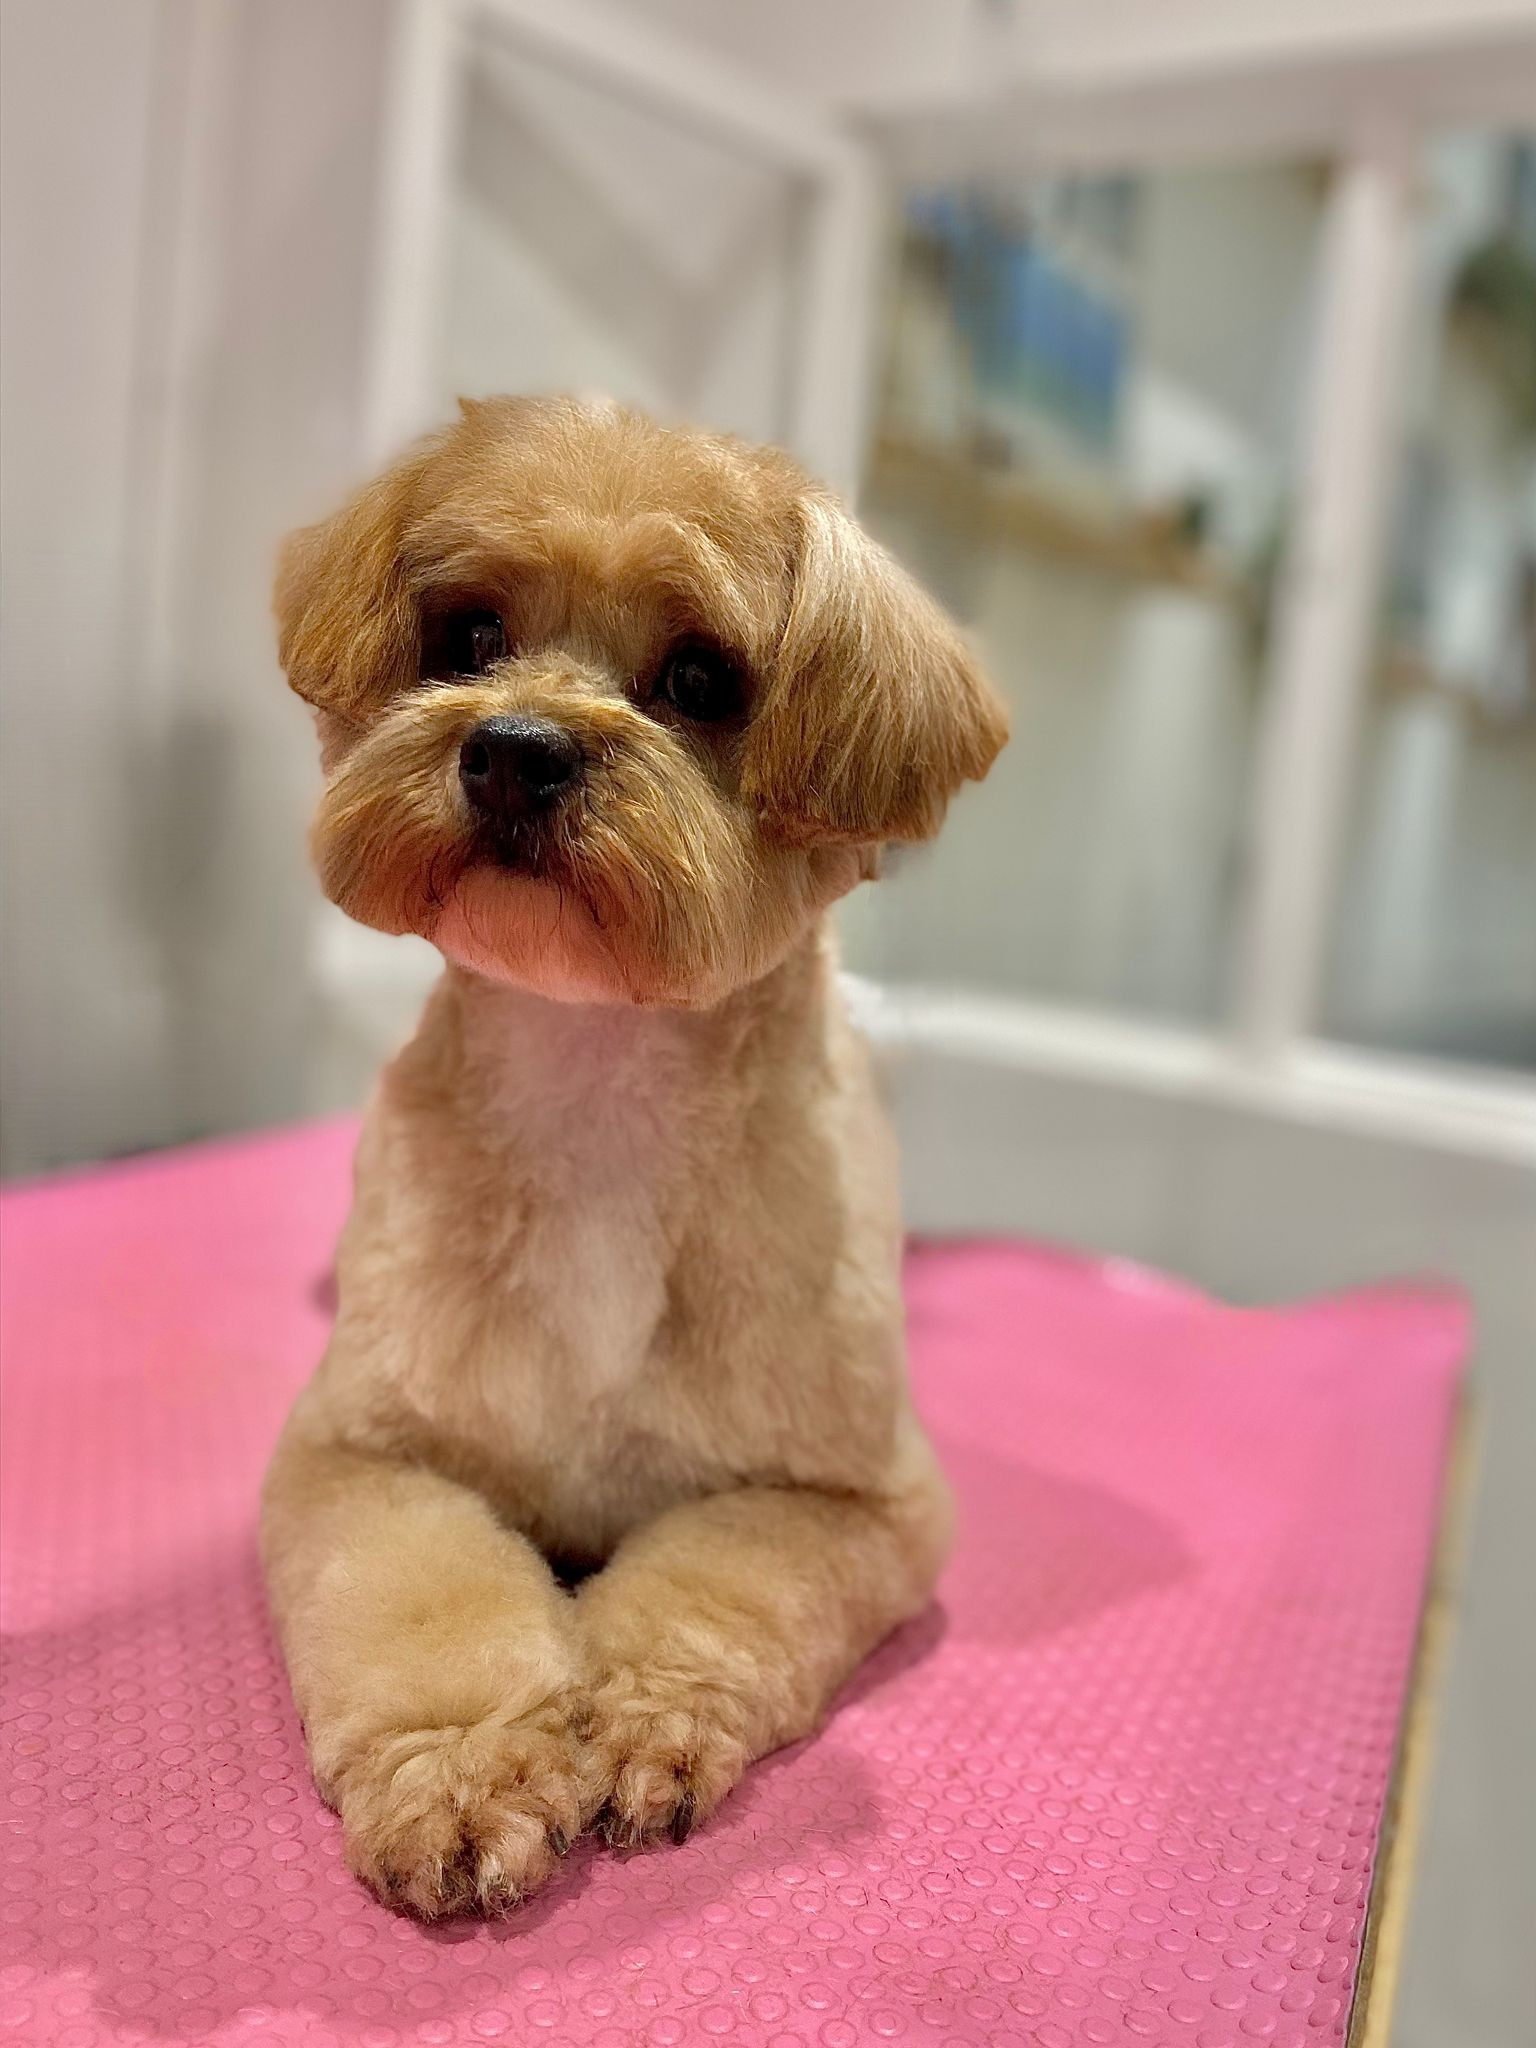
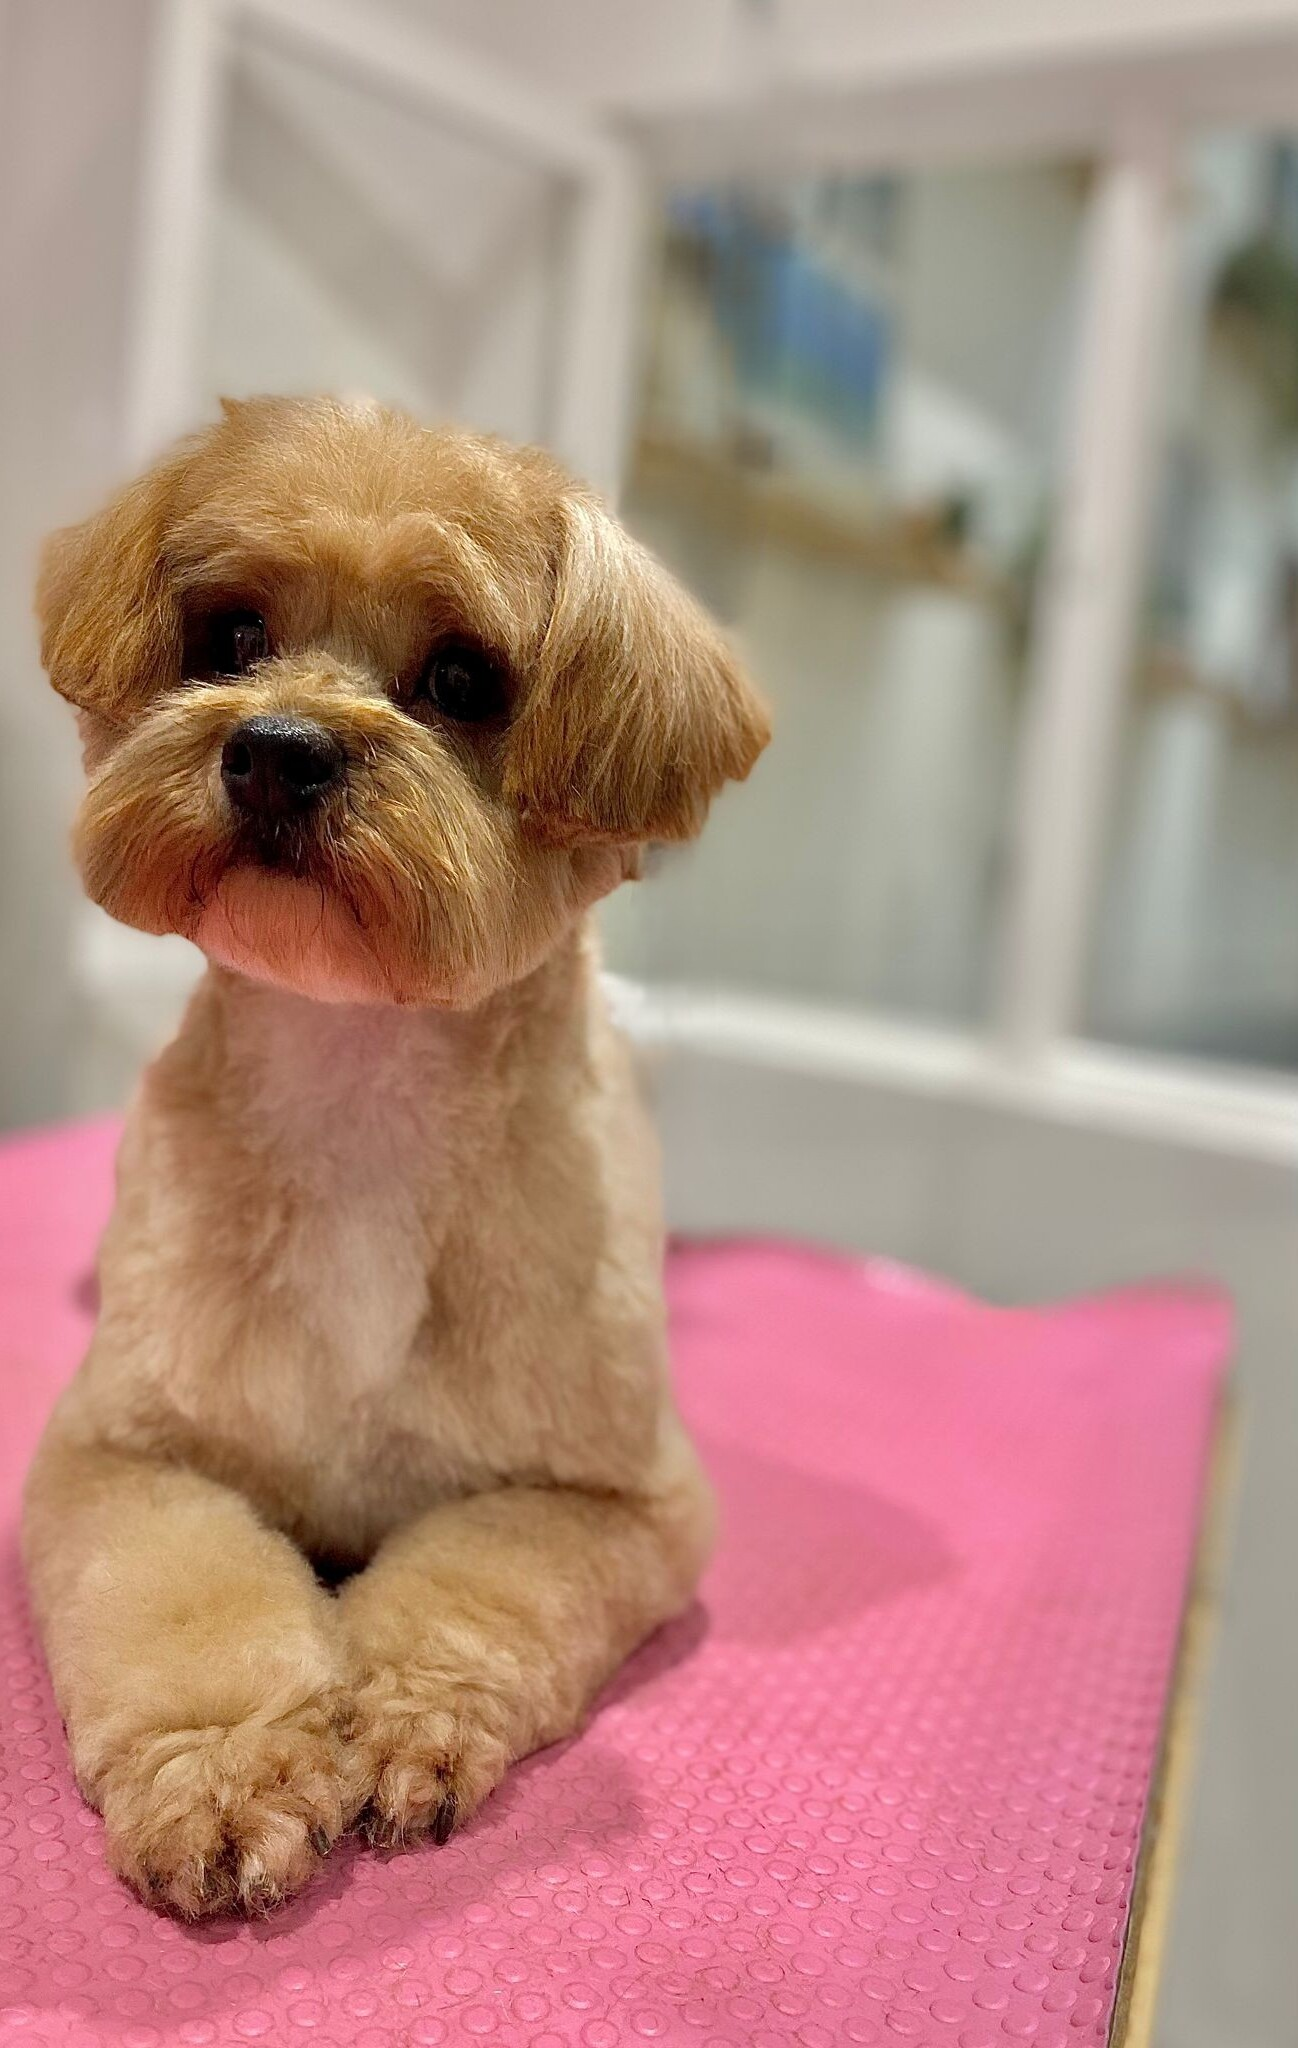
fix: crop slot 4 après to center the dog

diff --git a/src/app/(marketing)/services/[slug]/page.tsx b/src/app/(marketing)/services/[slug]/page.tsx
@@ -42,7 +42,7 @@ const BEFORE_AFTER_PAIRS = [
   },
   {
     before: { src: '/avant-apres-4-avant.jpg', alt: 'Avant toilettage' },
-    after: { src: '/avant-apres-4-apres.jpg', alt: 'Après toilettage', position: '60% center' },
+    after: { src: '/avant-apres-4-apres.jpg', alt: 'Après toilettage' },
     zoom: 1.4,
   },
   {
